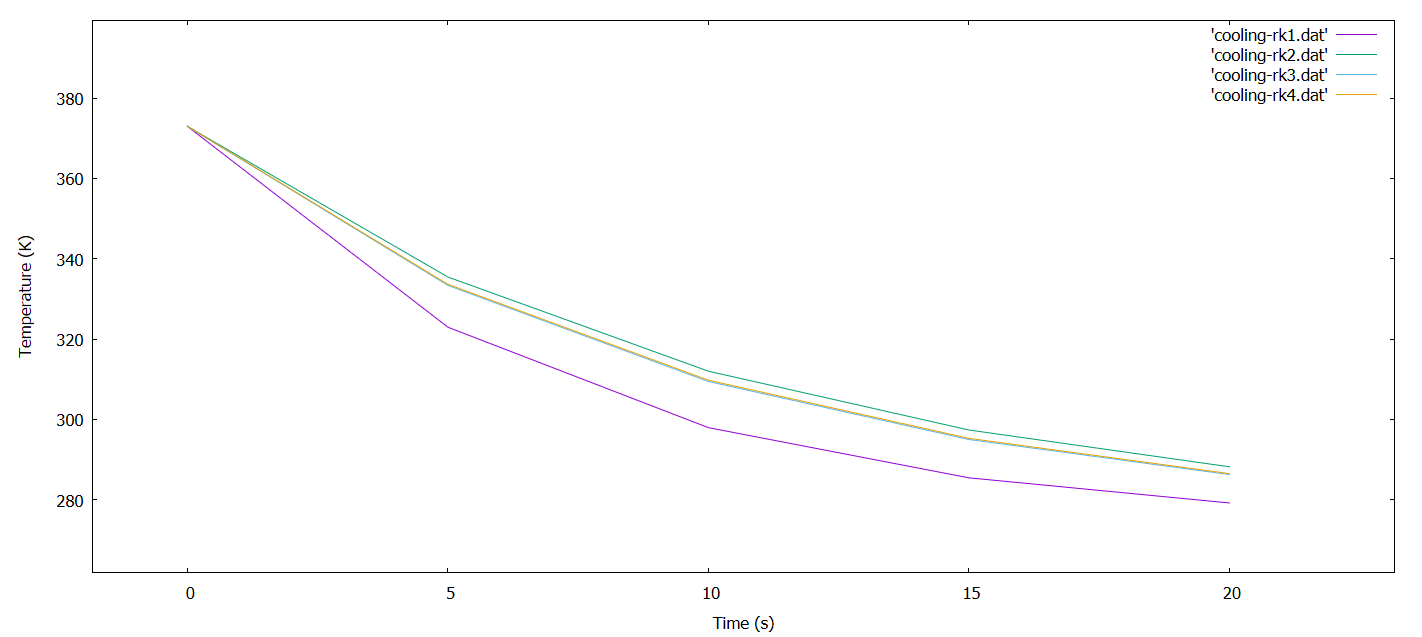
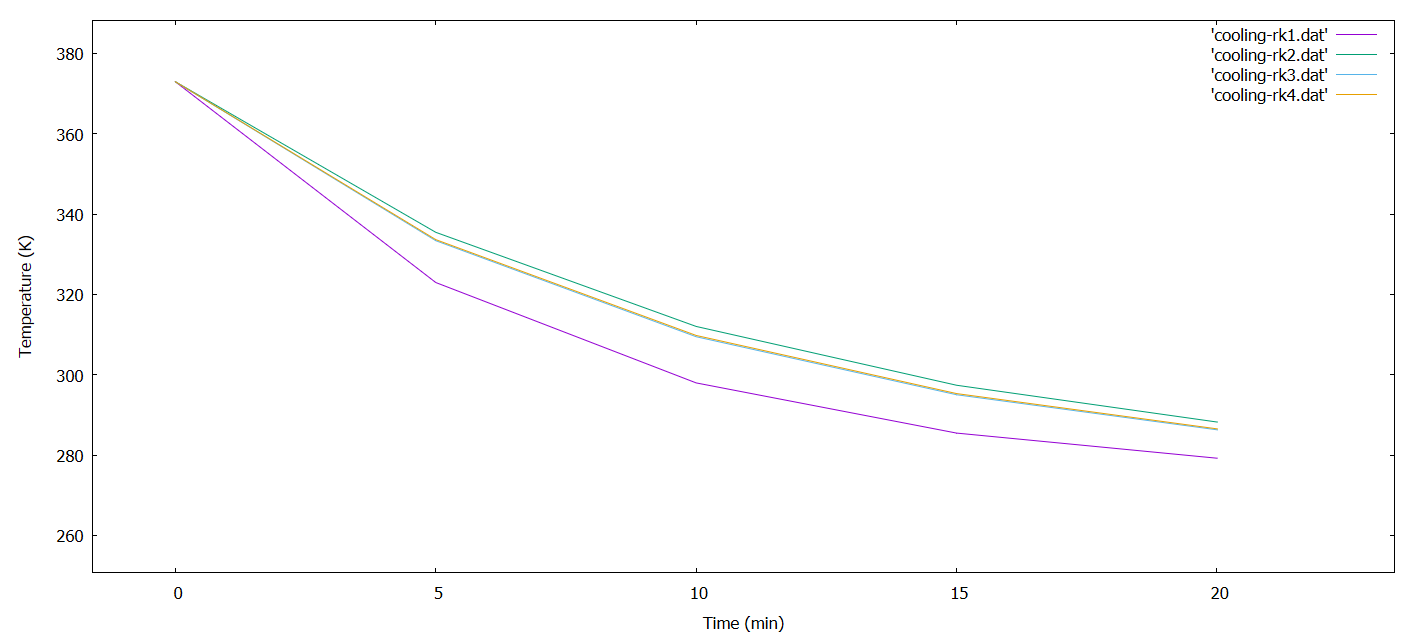
initial commit

diff --git a/README.md b/README.md
@@ -23,7 +23,7 @@ plot 'lorenz-rk4.dat' using 2:4 with line
 ```
 Newton's cooling law :
 ```
-set xlabel 'Time (s)'
+set xlabel 'Time (min)'
 set ylabel 'Temperature (K)'
 plot 'cooling-rk1.dat' with line,\
 'cooling-rk2.dat' with line,\
